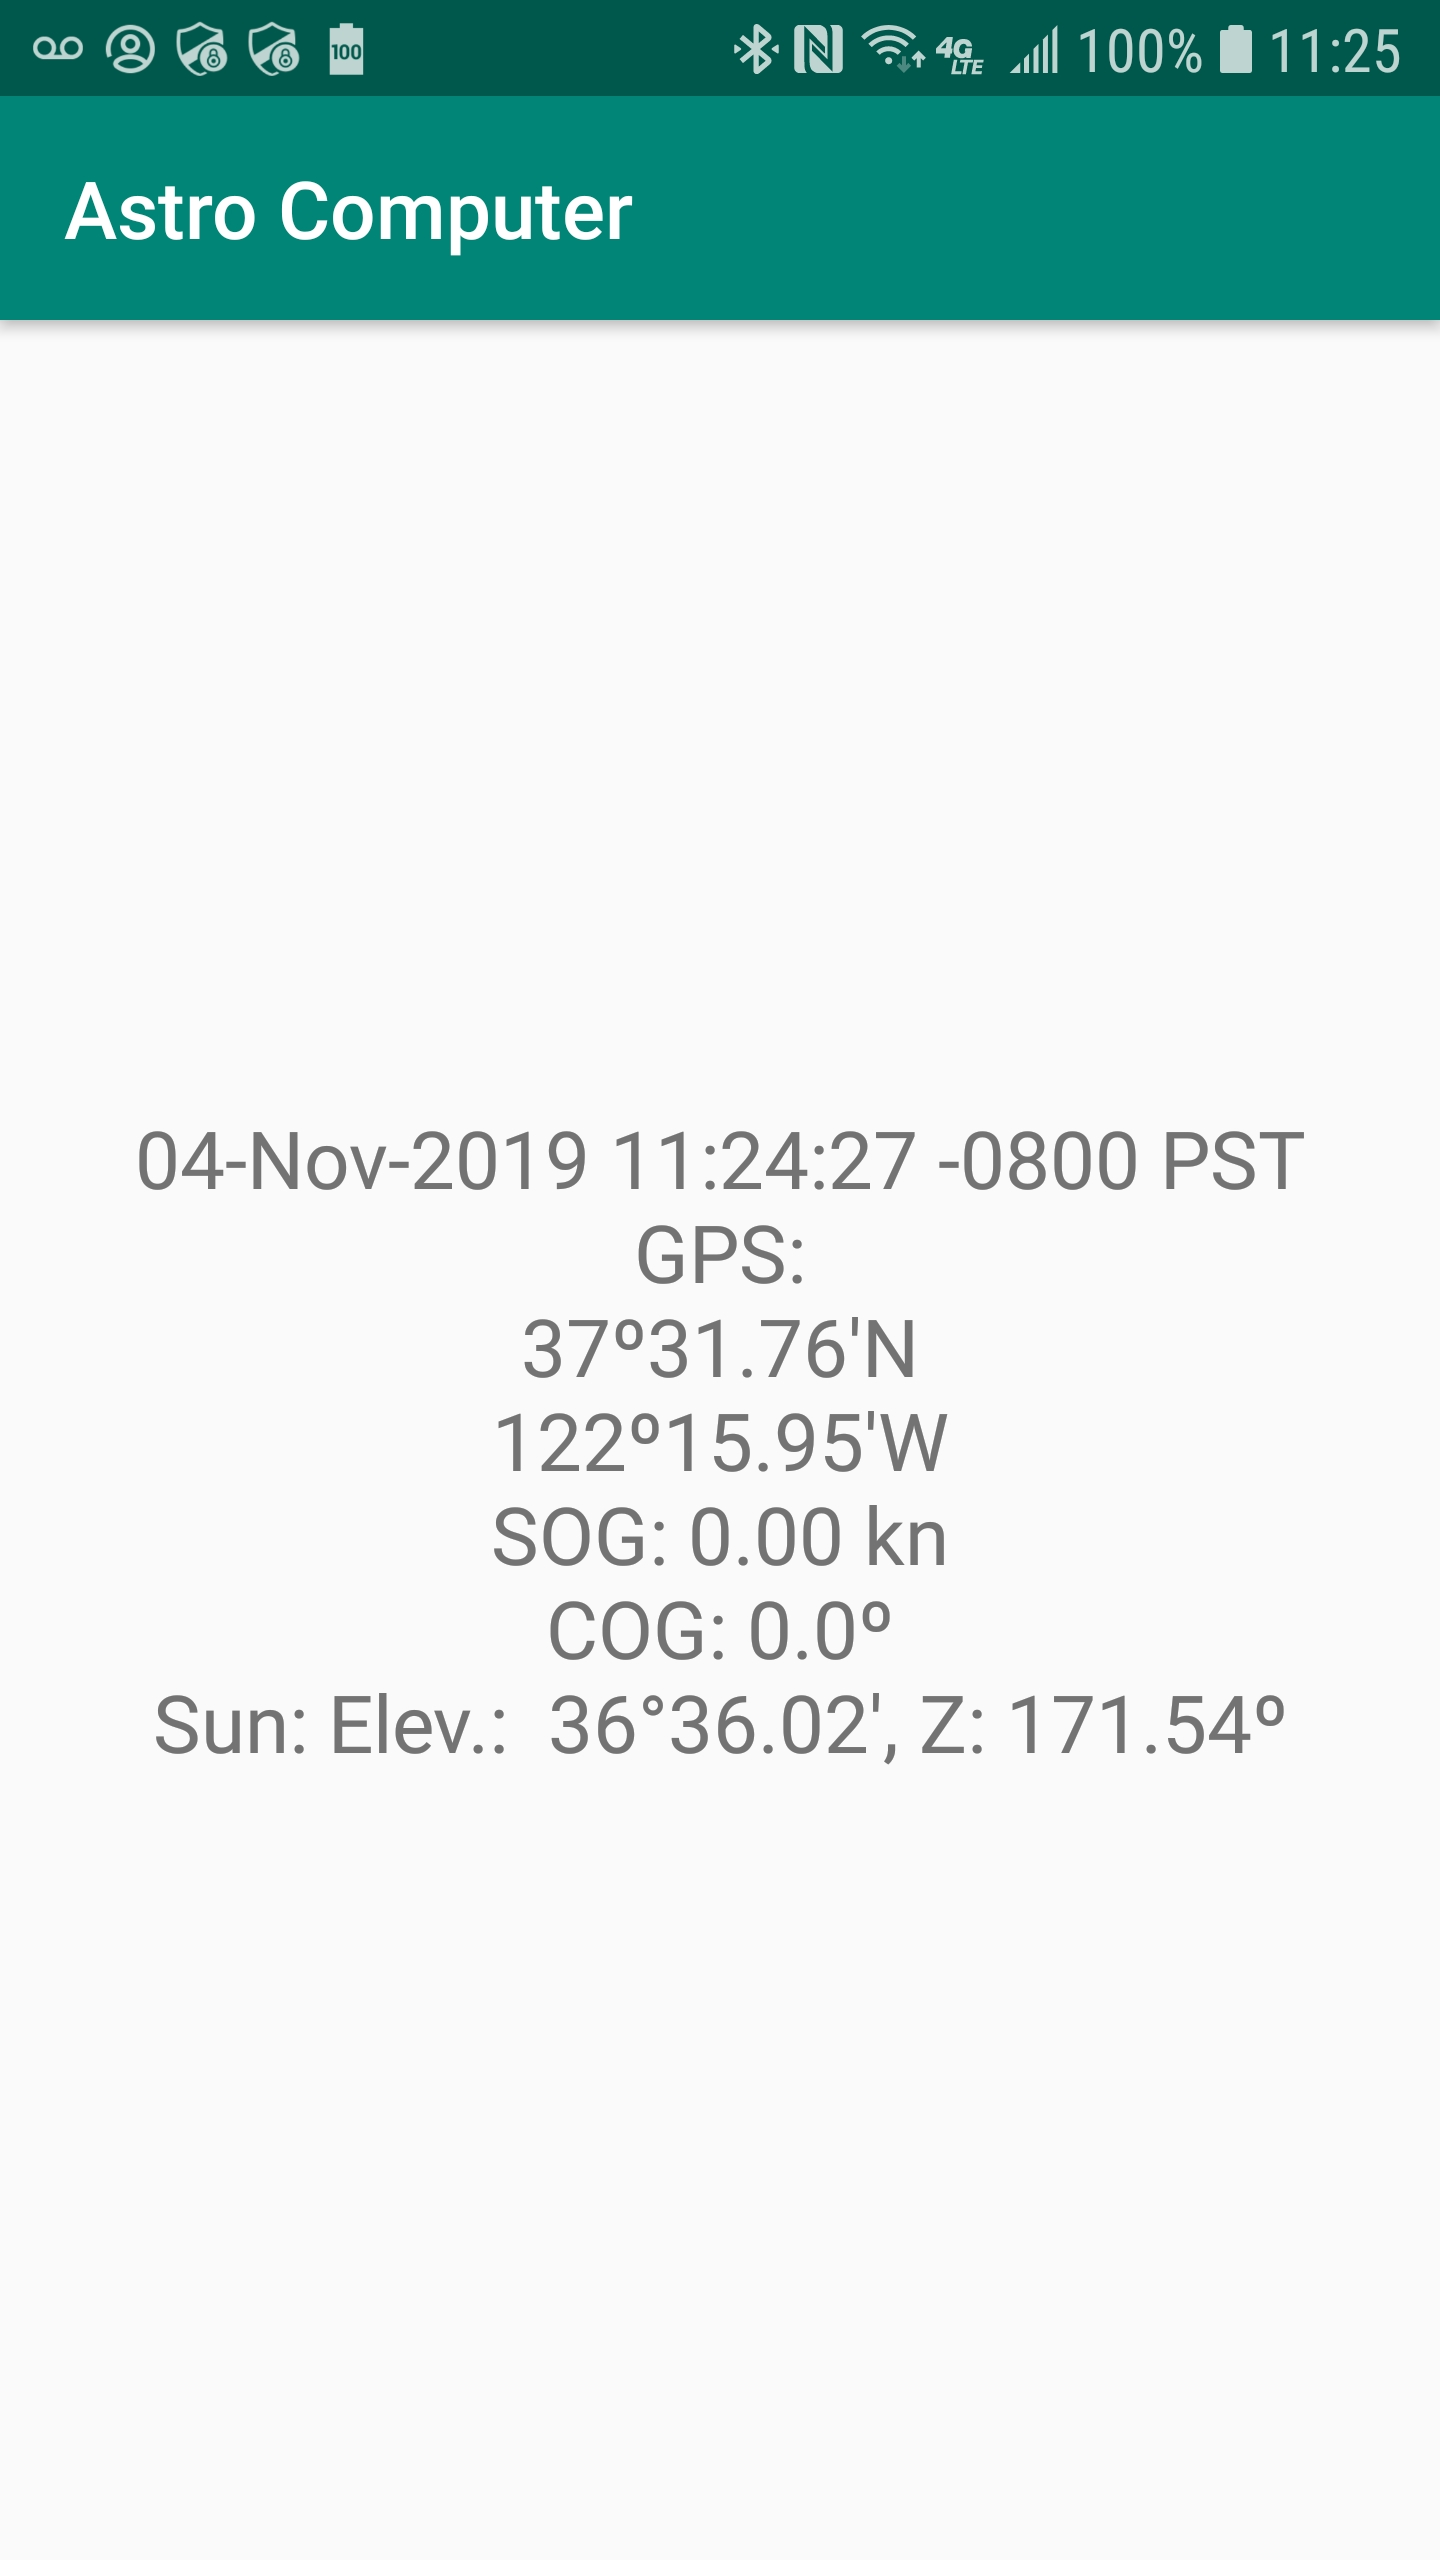
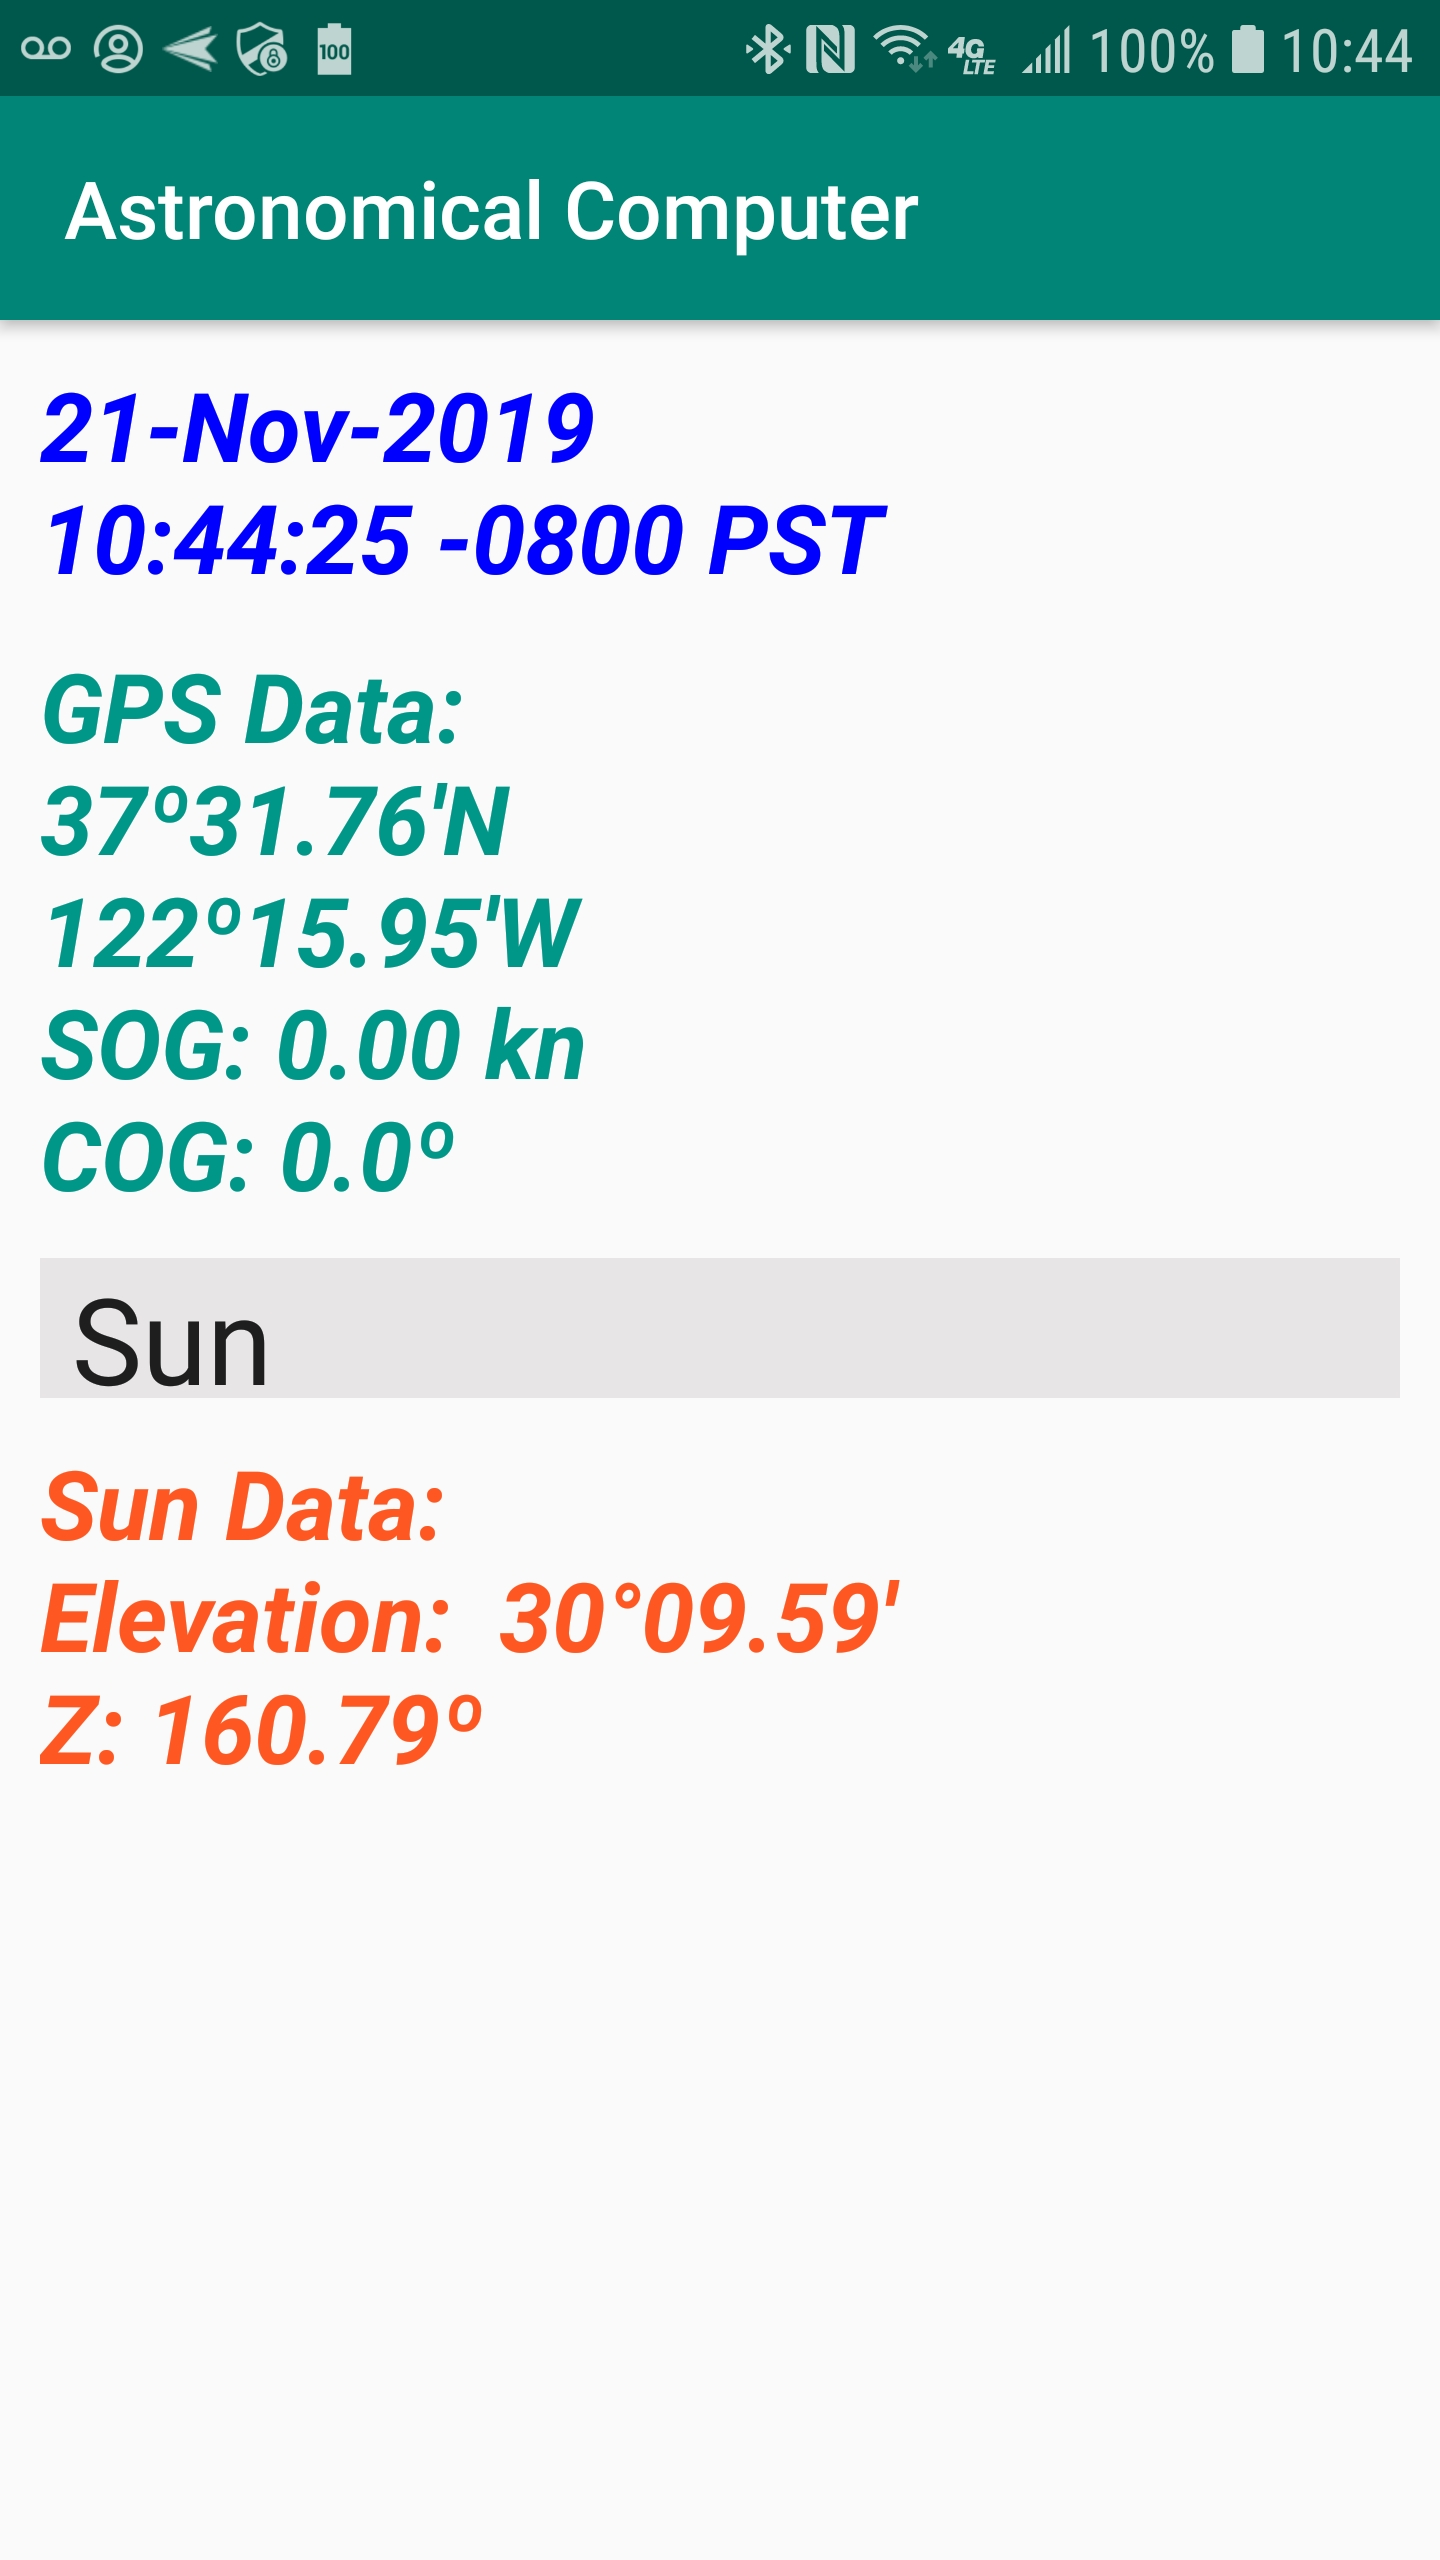
Updated screenshots

diff --git a/Raspberry.Droid/README.md b/Raspberry.Droid/README.md
@@ -7,8 +7,11 @@ This section is about giving it a try...
 
 ---
 ### Projects
-- [`AstroComputer`](./AstroComputer), a phone or tablet app, displaying current time, current position, and Sun coordinates (Elevation and azimuth)
-![Astro](./Screenshot_Astro_Computer.jpg)
+- [`AstroComputer`](./AstroComputer), a phone or tablet app, displaying current time, current position, and a chosen celestial body's coordinates (elevation and azimuth)
+
+| Screenshot |
+|:-----------|
+| ![Astro](./Screenshot_Astro_Computer.jpg) |
 
 ---
 

diff --git a/Raspberry.Droid/AstroComputer/README.md b/Raspberry.Droid/AstroComputer/README.md
@@ -1,12 +1,12 @@
-## Android Astro Computer
+## Android Astronomical Computer
 This is a basic Android application.
 
 What it does:
 - Reads the position from the internal GPS
 - Get the time from the internal clock
 - Computes the chosen body's position and displays for the current position and time
-    - the Sun's elevation
-    - the Sun's azimuth
+    - the chosen body's elevation
+    - the chosen body's azimuth
 - Available bodies are
     - Sun
     - Moon
